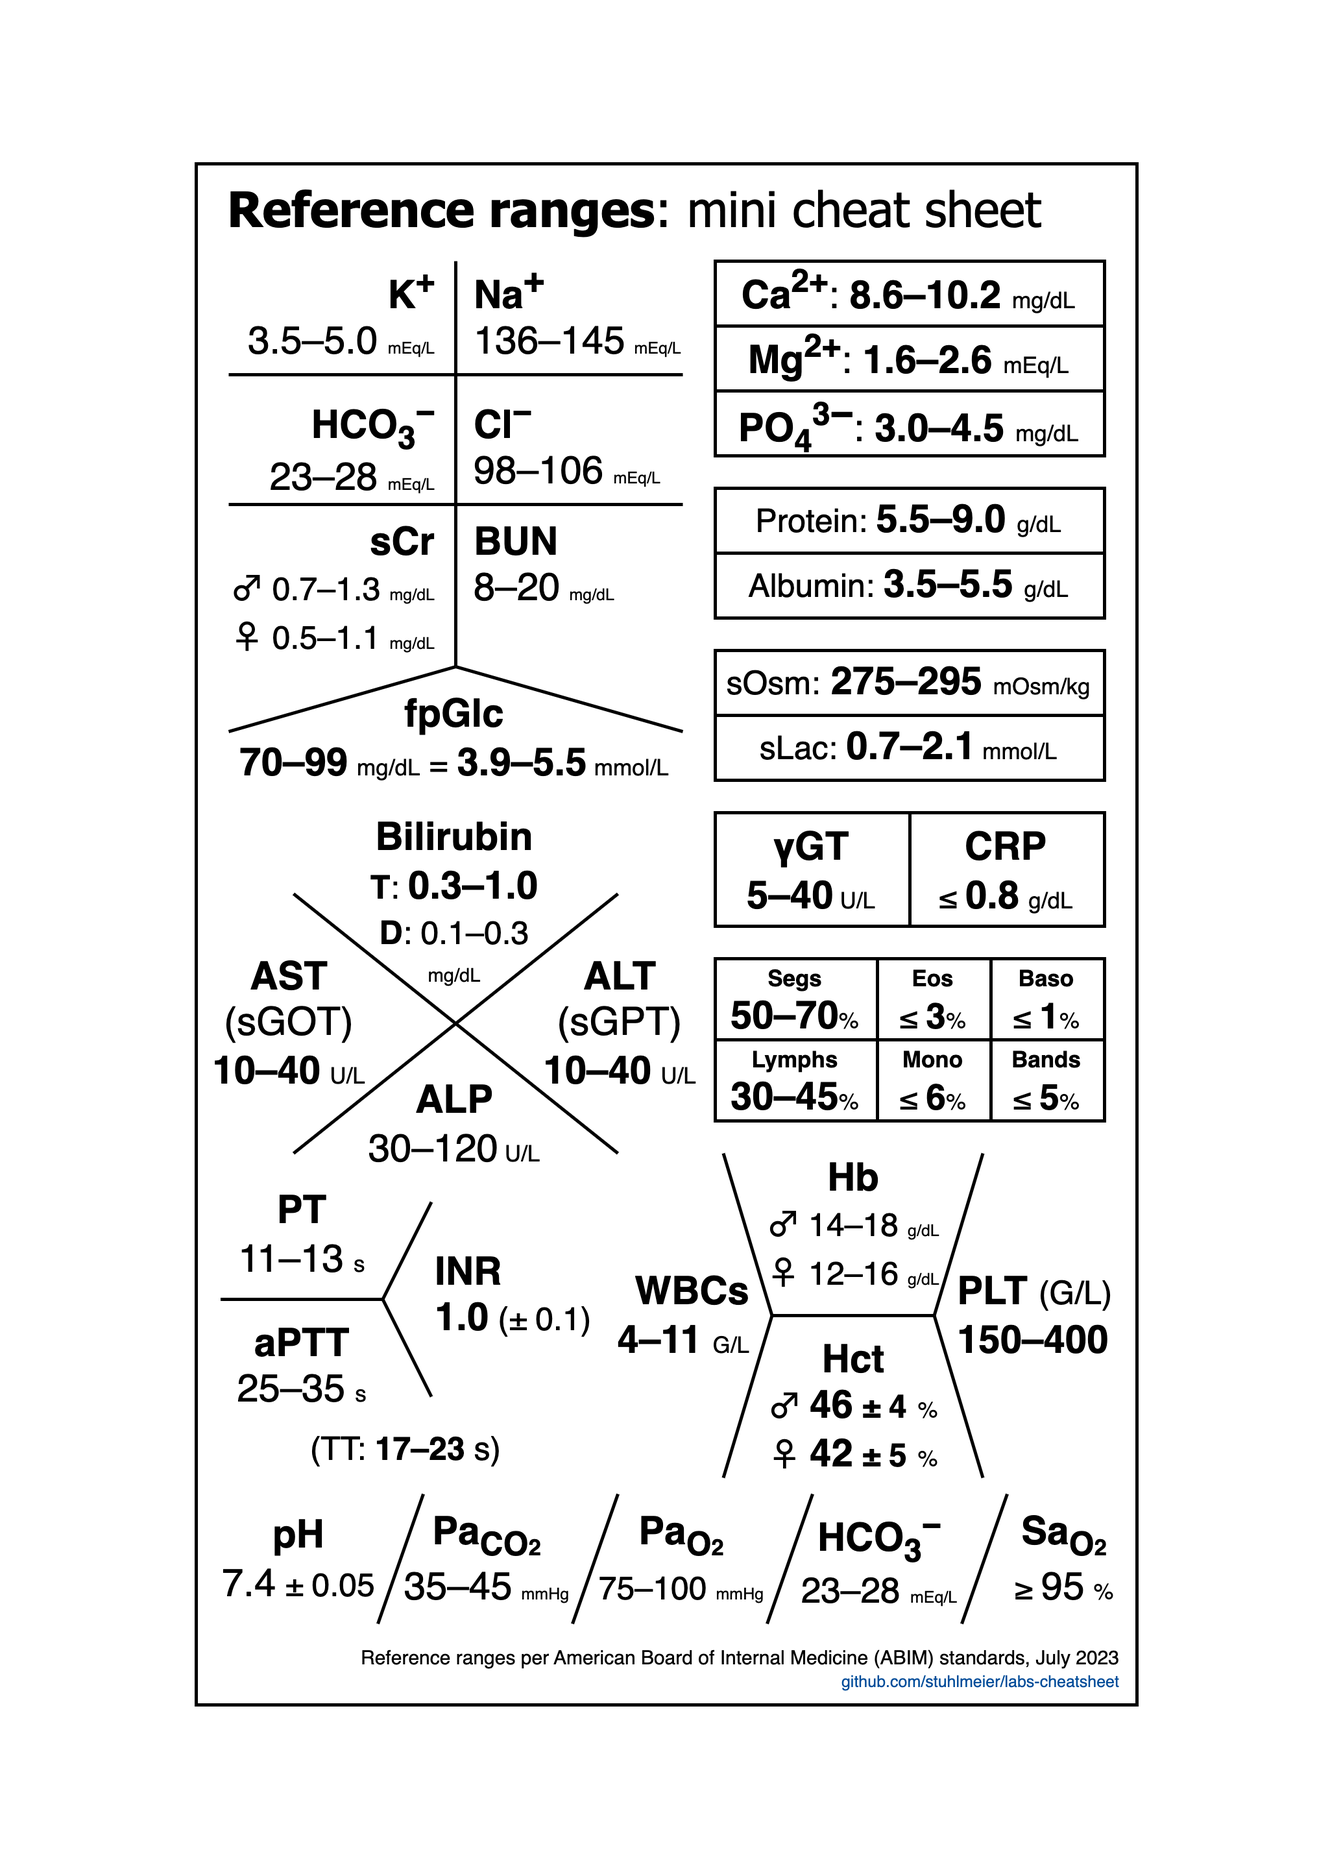
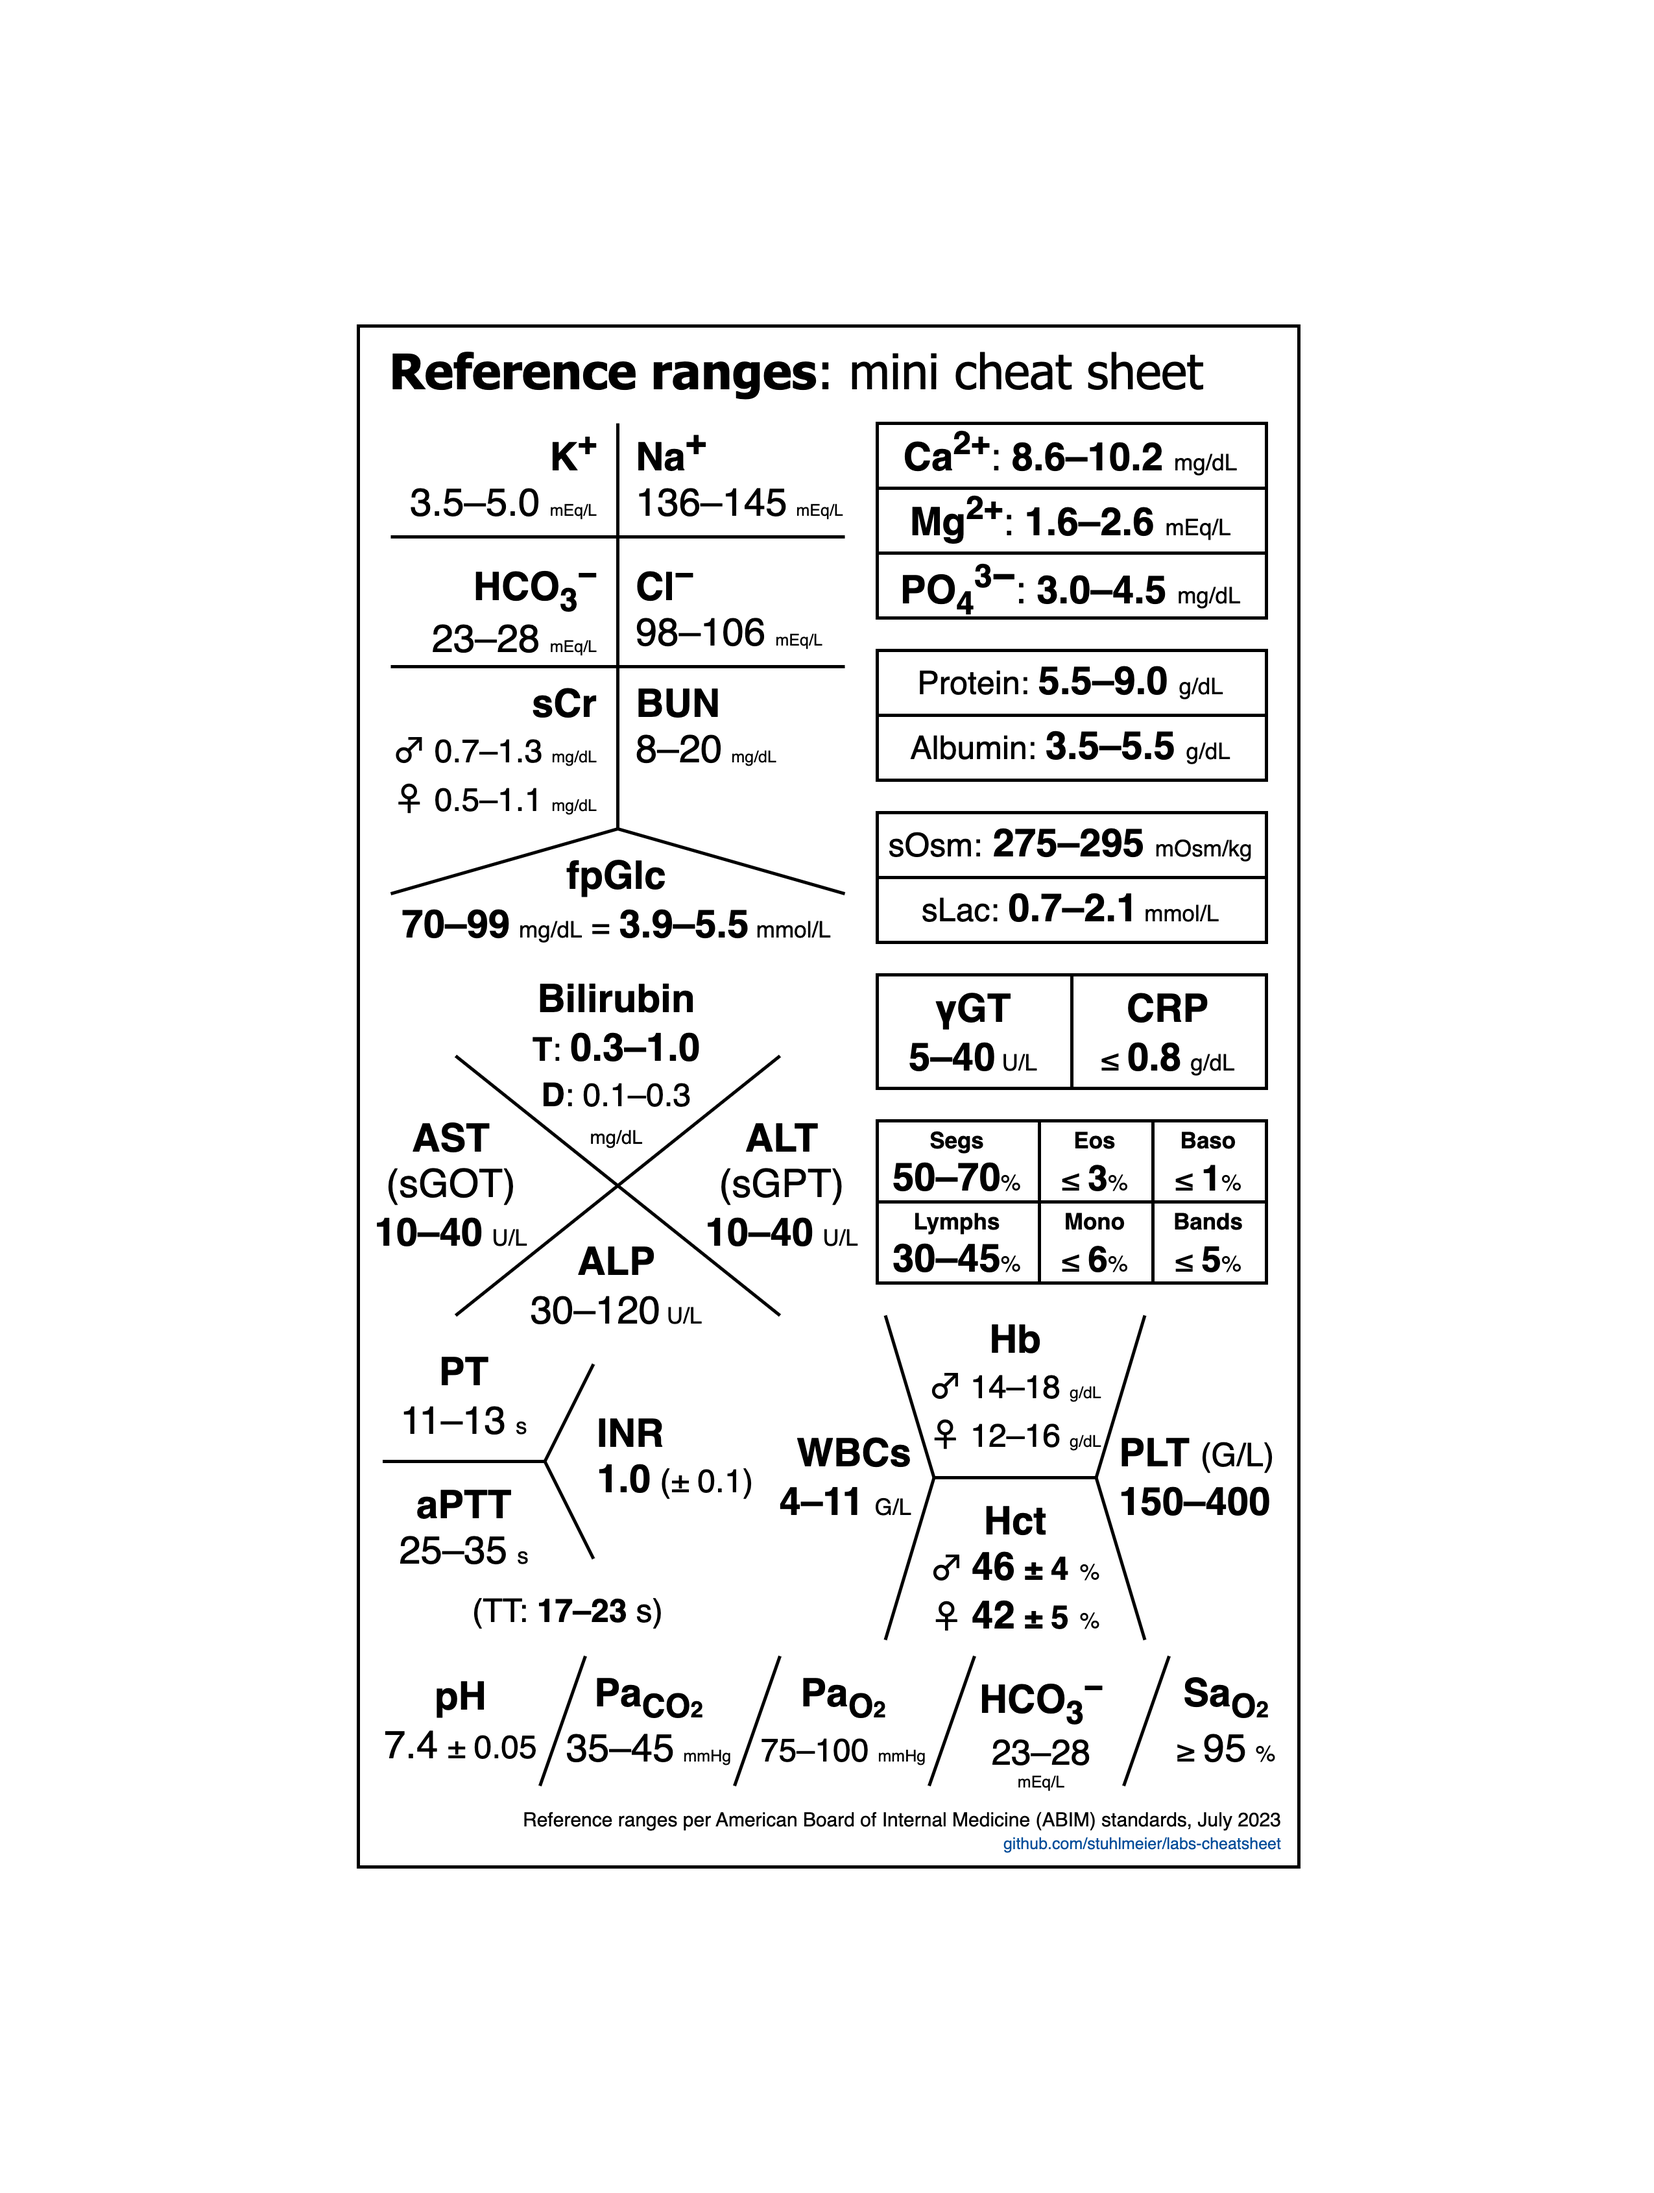
Minor adjustment

Changed region(s): [[0.1561, 0.0936, 0.8429, 0.9047]]

diff --git a/README.md b/README.md
@@ -1,12 +1,11 @@
 # Laboratory reference range mini cheat sheet
 
-I made this for use as my phone wallpaper, but perhaps this can be of use 
-to others as well.
+I made this for use as my phone wallpaper, but perhaps this can be of use to others as well.
 
-The reference ranges used are from the ABIM's official [laboratory test 
-reference range 
-list](https://www.abim.org/Media/bfijryql/laboratory-reference-ranges.pdf) 
-as of July 2023.
+The reference ranges used are from the ABIM's official [laboratory test reference range list](https://www.abim.org/Media/bfijryql/laboratory-reference-ranges.pdf) as of July 2023.
+
+**Note**: the upper left fishbone diagram (BMP) is rotated 90° clockwise 
+in order to fit it in the available space; this is not its usual 
+orientation.
 
 ![Exported image](exported.png)
-
